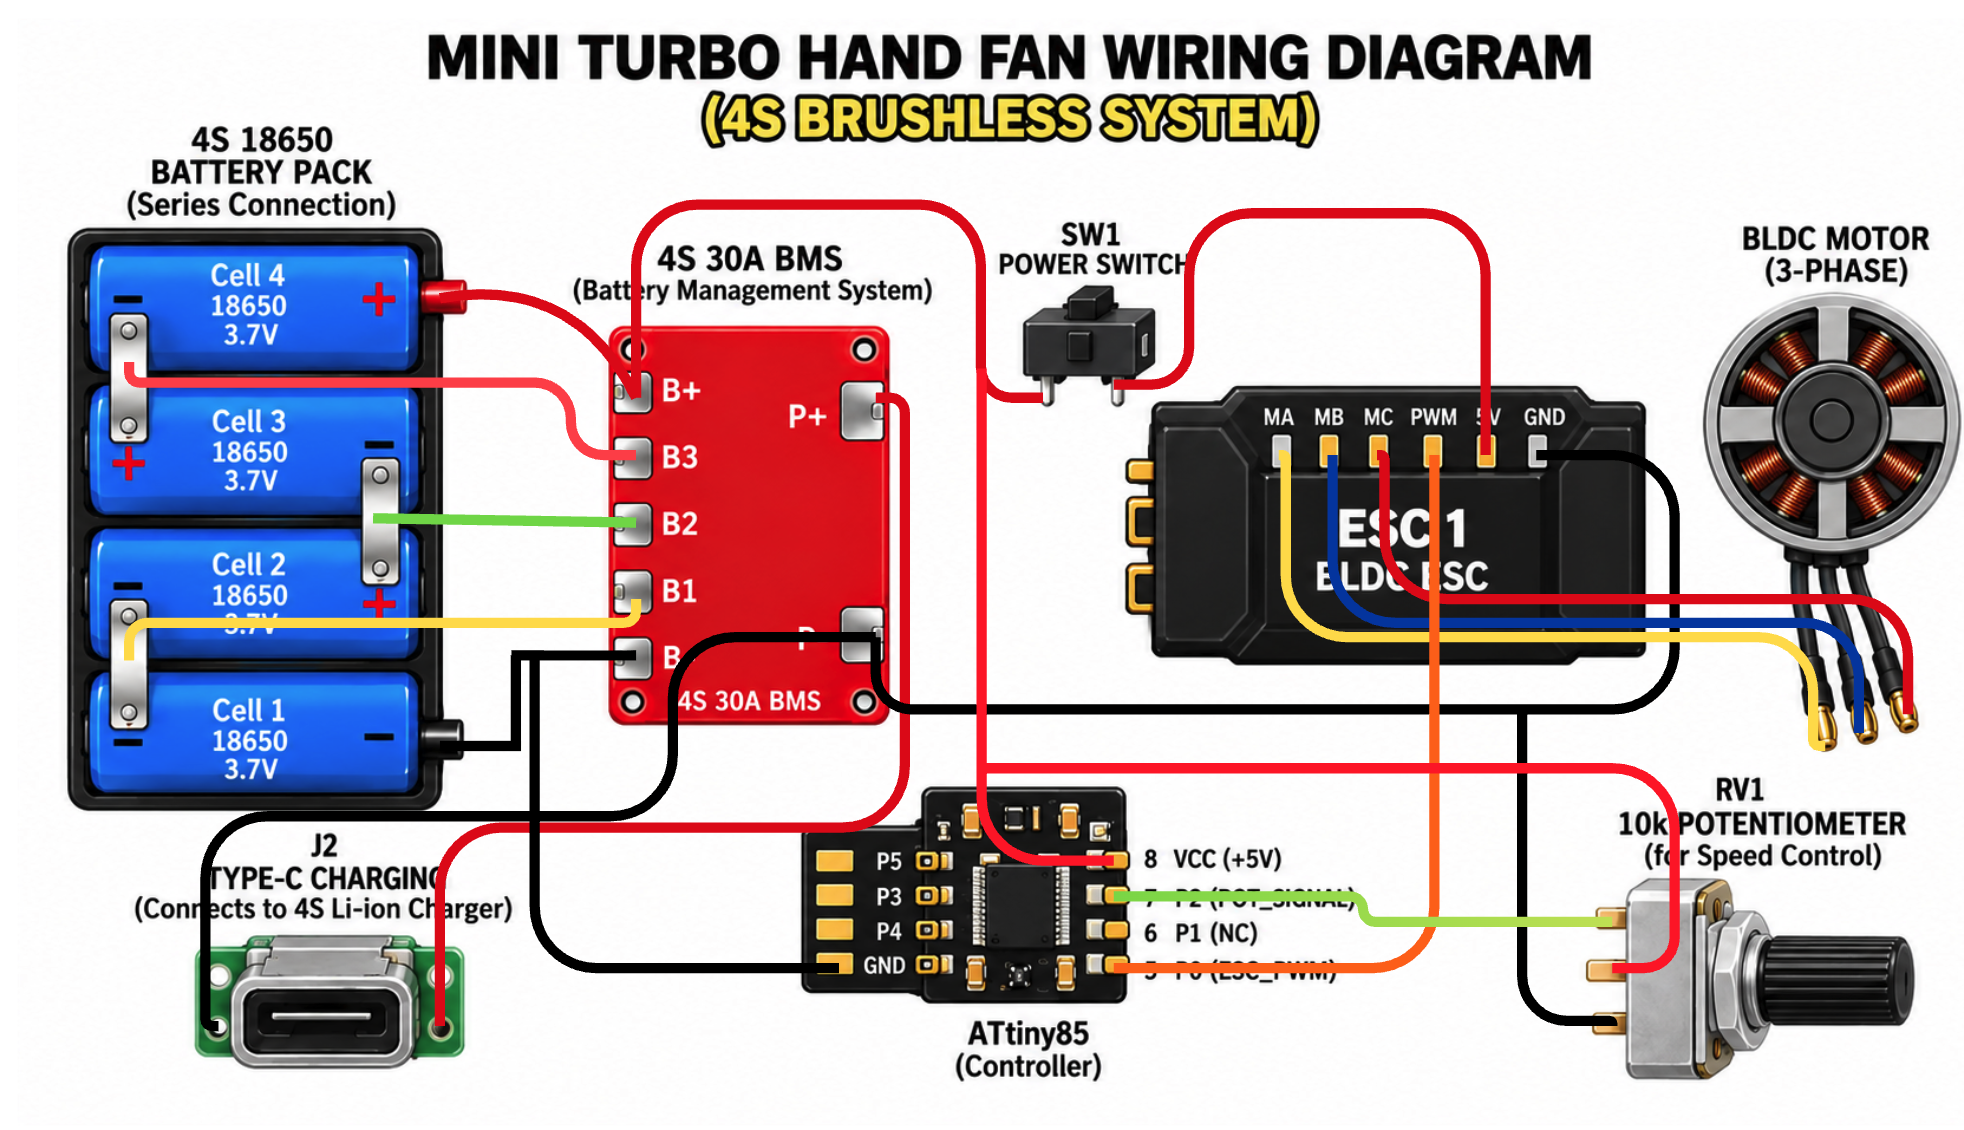
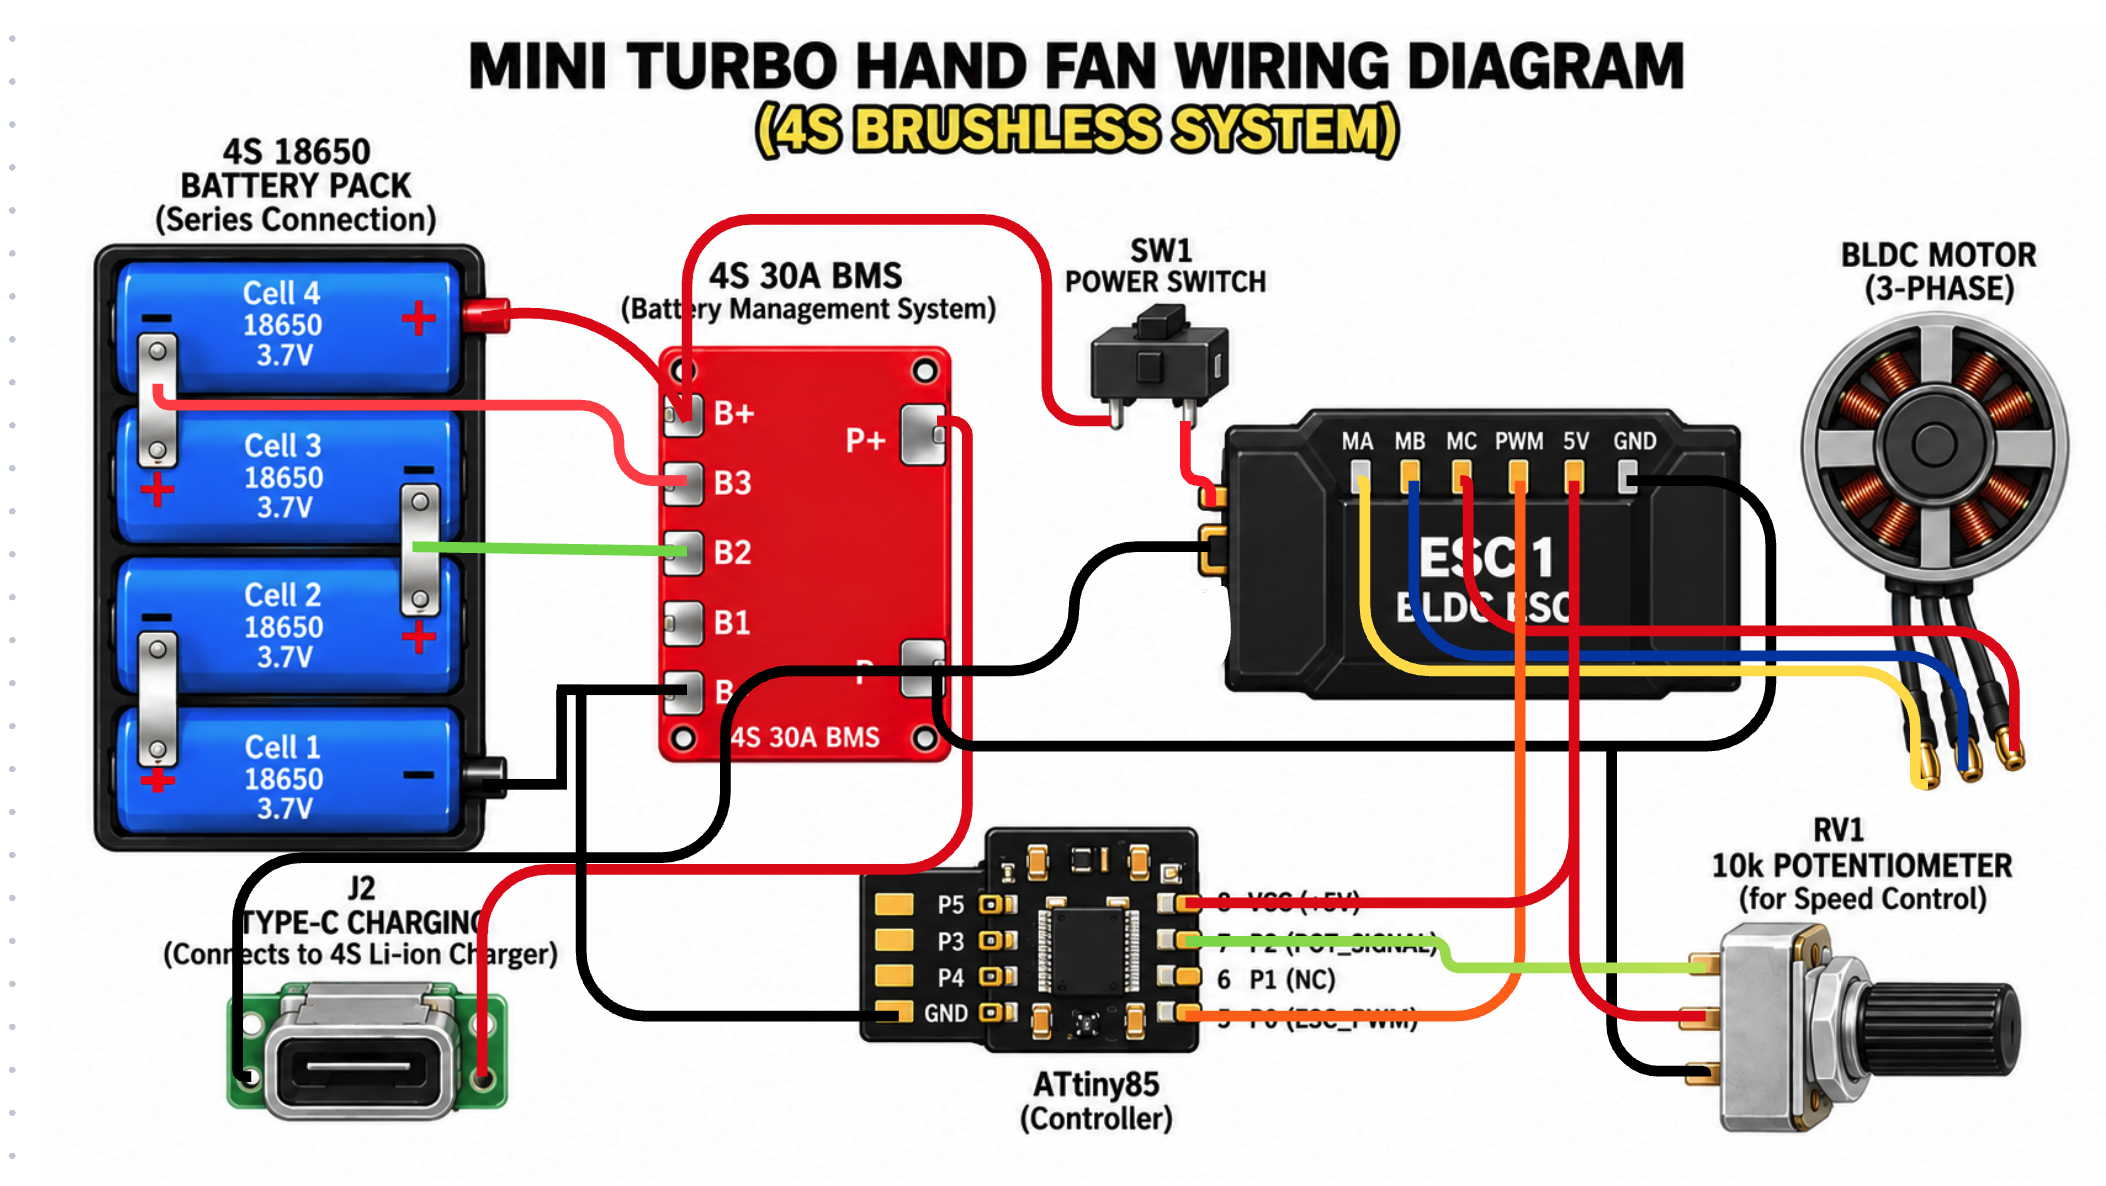
final

Changed region(s): [[0.0311, 0.031, 1.0, 0.9602], [0.9318, 0.8053, 0.9939, 0.9292]]

diff --git a/README.md b/README.md
@@ -47,7 +47,7 @@ This is the finalized electrical schematic. To strictly maintain the $50.00 budg
 ---
 
 **Wiring Diagram**
-![Wiring Diagram](images/Wiring.png)
+![Wiring Diagram](images/wiring.png)
 
 Please note that all wire colors shown in the circuit diagram are for reference purposes only. Actual wire colors may differ depending on the specific components you are using, but the basic connections will remain the same. Always **cross-verify** the pinouts of your components before making connections. 
 
